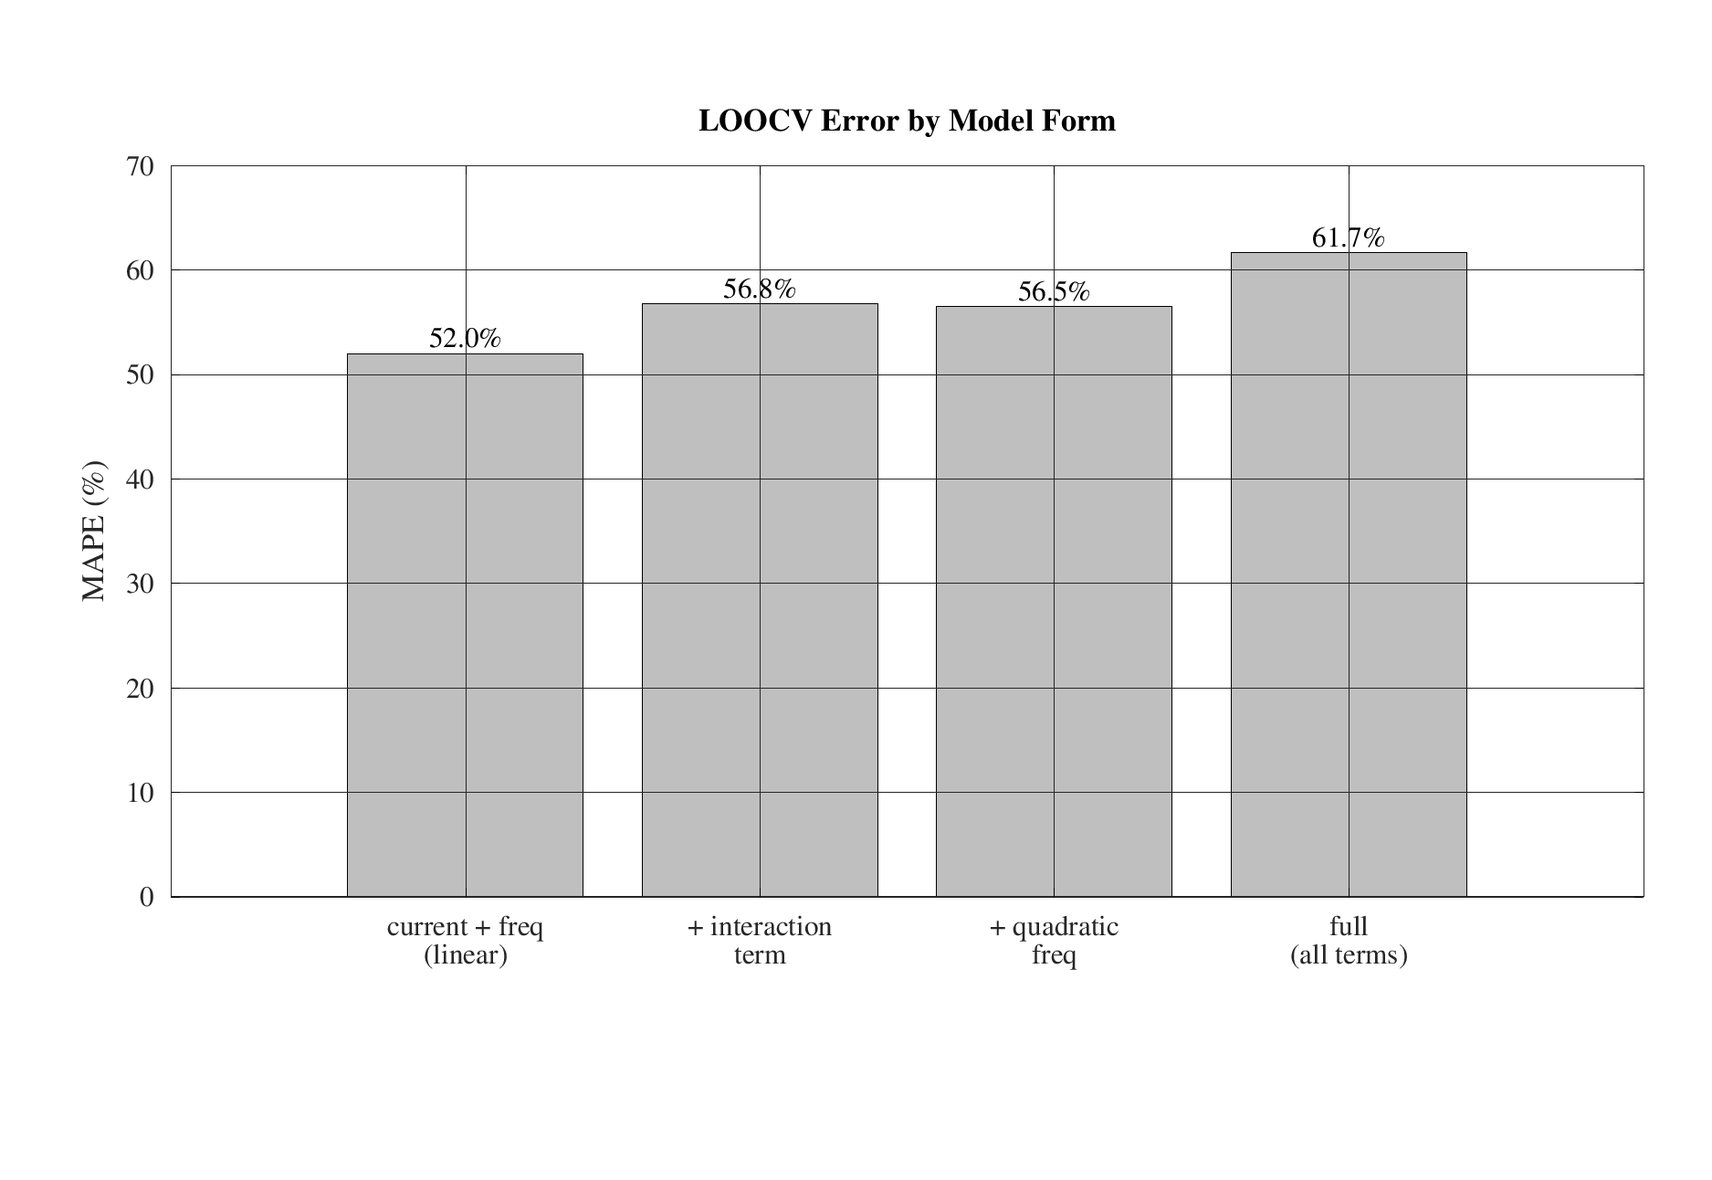
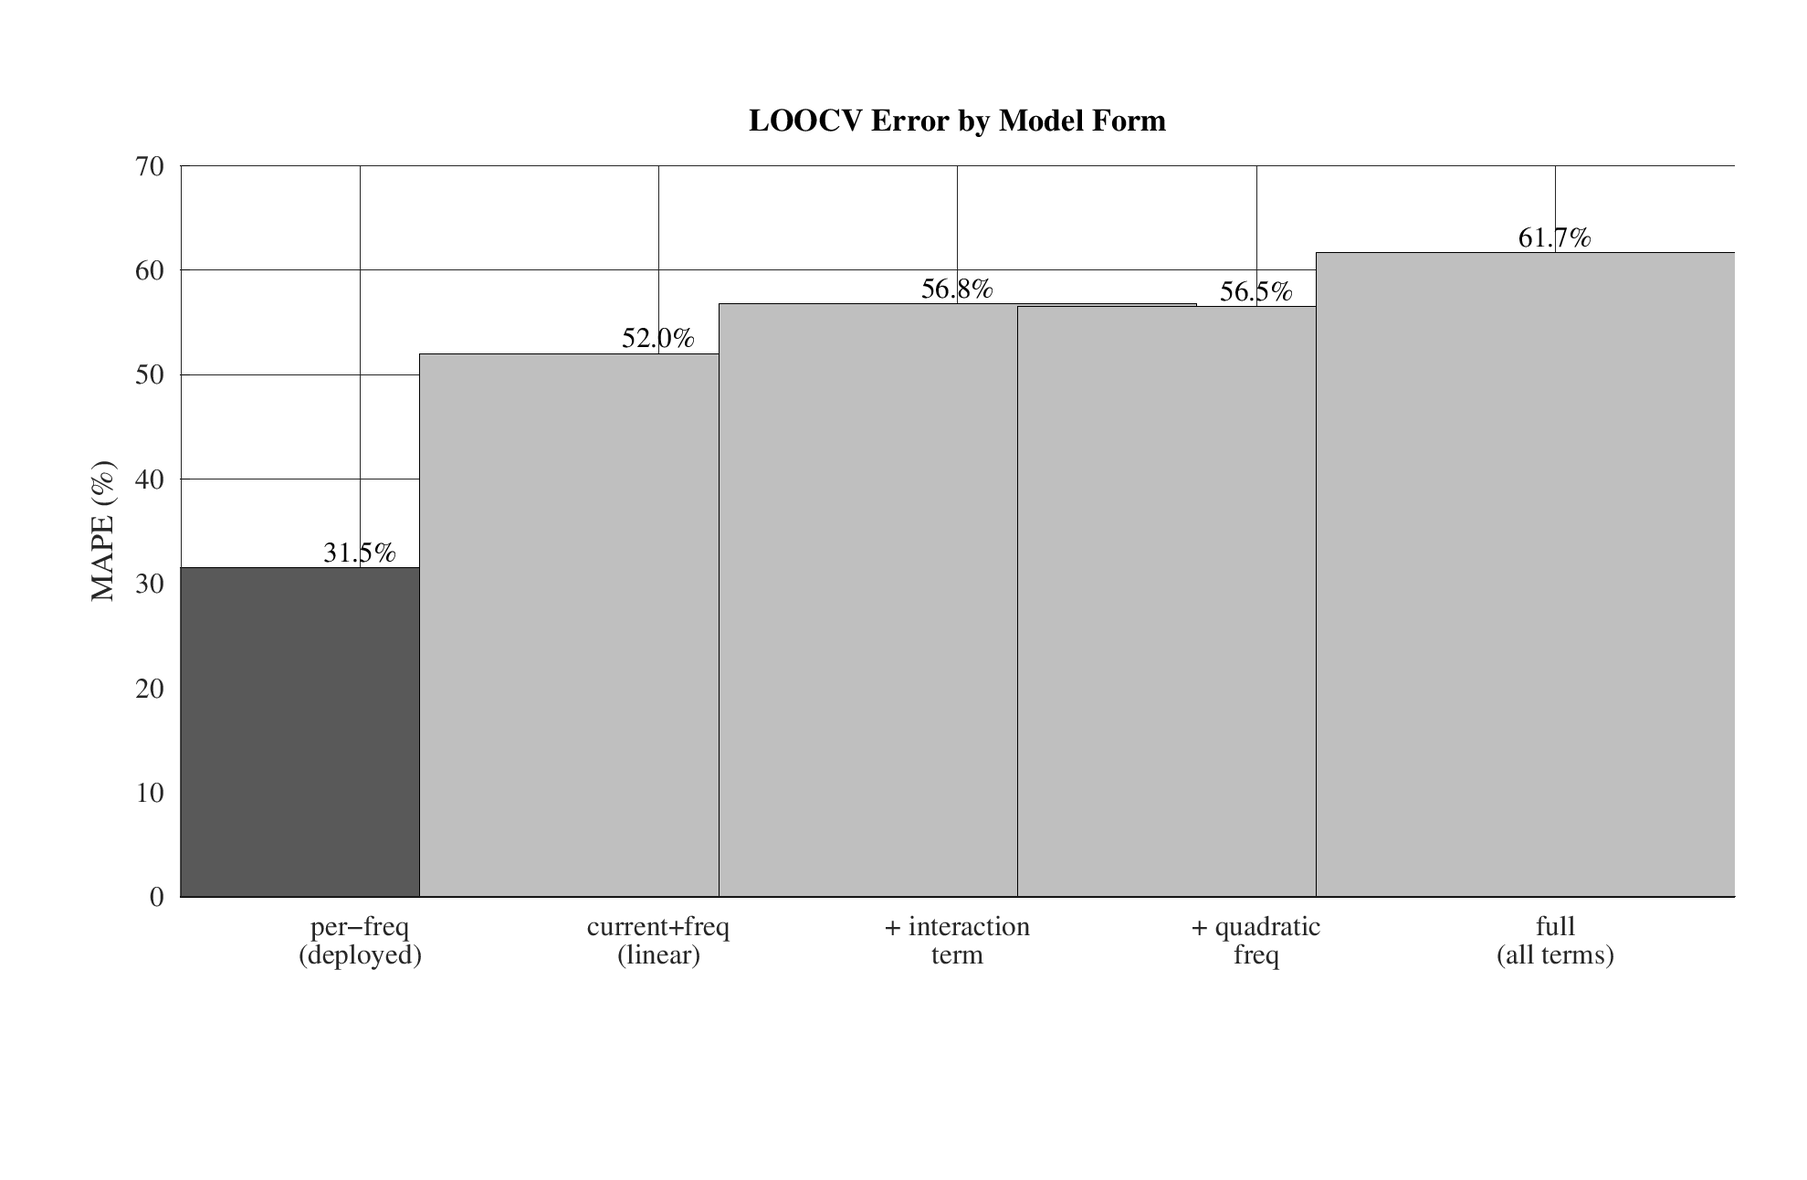
Rev 16: second independent audit + Table XV root-cause fix
Implements the second independent 45-item audit of Rev 15 plus a root-
cause finding discovered independently (not flagged by either audit):
Section V-D's prose misdescribed Table XV's "Model 1" as the deployed
per-frequency model, when the real per-frequency LOOCV (now in
tools/model/cross_validate.py) is 0.207 kg MAE - roughly half the error
of every model actually in the table. Table XV gains that real baseline
row, Fig. 14 regenerated with five bars, and the "every model form lands
in the same ~50% band" conclusion is corrected throughout (V-D, VI-A,
Abstract, Conclusion).

Also fixes a real reproducibility error (Resistor 2 @ 2.90 Hz: 0.87 kg
doesn't reproduce from the documented coefficients, 0.80 kg does; blind
MAE corrected 0.37 -> 0.36 kg), adds a model-state column to Table XI,
corrects the Kroičs/Hafezi [9] citation against its real published
abstract, and applies ~25 further grounded wording/data fixes across
hardware-scope, slip/torque, and acronym-consistency items. BOM fixes
per David's confirmation: pulley bore is 8 mm (not 5 mm), and the rod
was bought as a two-pack for $34.57 with only one used.

Claude-Session: https://claude.ai/code/session_01KDBgZS5sBDtdZcqbVDmcN3

diff --git a/tools/matlab/generate_figures.m b/tools/matlab/generate_figures.m
@@ -58,11 +58,13 @@
 %
 % Fig. 1/5 are drawn schematics (wiring per docs/wiring.md + Table III). Fig. 8/9/10 are
 % computed directly from the real groups.csv files checked into the repo (genuine
-% recomputation, not hardcoded). Fig. 11/14 reproduce the already-reported blind-
-% validation and LOOCV results (Tables VIII/XII of the paper) - those specific held-out
-% sessions were analyzed ad hoc and are not re-derivable from a groups.csv in this
-% repo, so their numbers are transcribed here from the paper with a comment at each
-% one, not recomputed.
+% recomputation, not hardcoded). Fig. 11 reproduces the already-reported blind-
+% validation results (Table XI of the paper) - those specific held-out sessions were
+% analyzed ad hoc and are not re-derivable from a groups.csv in this repo, so its
+% numbers are transcribed here from the paper with a comment, not recomputed. Fig. 14
+% IS reproducible: its numbers come directly from tools/model/cross_validate.py, a
+% real committed LOOCV script, and are only transcribed into this plotting code
+% rather than recomputed in Octave to avoid porting that fitting/CV logic twice.
 %
 % Rev 10: down-direction (lowering) slip/current data removed from the baseline figure
 % entirely - the motor has no dynamic braking, so down-direction readings were never
@@ -301,7 +303,7 @@ close(fig);
 % updated after Resistor 2's weight was folded into calibration; see Table XI.
 % ============================================================================
 actual =    [0.64, 0.64, 0.82, 0.82, 0.54, 0.54, 0.54, 0.54, 0.54];
-predicted = [0.27, 0.18, 0.87, 0.00, 0.80, 1.05, 0.25, 0.54, 0.00];
+predicted = [0.27, 0.18, 0.80, 0.00, 0.80, 1.05, 0.25, 0.54, 0.00];
 % Note: deliberately no '@' in these labels - Octave's gnuplot backend treats
 % it as a text-escape character and mangles the following characters.
 labels =    {'Resistor 1, 1.44 Hz','Resistor 1, 6.21 Hz','Resistor 2, 2.90 Hz', ...
@@ -322,18 +324,30 @@ saveas(fig, fullfile(OUT_DIR, 'fig6_blind_validation.png'));
 close(fig);
 
 % ============================================================================
-% Figure 13 (paper Fig. 13): LOOCV error by model form
-% Transcribed from Table XII of the paper (leave-one-out cross-validation across
-% all 17 real calibration points - the exact procedure tools/model/fit_model.py
-% uses; reproducing it here would require porting that fitting/CV logic to Octave,
-% not just replotting its output, so the reported numbers are used directly).
+% Figure 14 (paper Fig. 14): LOOCV error by model form
+% Reproduced from tools/model/cross_validate.py's real leave-one-out cross-
+% validation across all 17 real calibration points (run it directly: python
+% tools/model/cross_validate.py / tools/model/cross_validation.json) - the
+% deployed per-frequency model plus four global current+frequency regressions
+% of increasing complexity; reproducing that fitting/CV logic in Octave would
+% just replot the same numbers, so they are transcribed here with the script
+% cited as the reproducible source.
 % ============================================================================
-model_forms = {'current + freq\n(linear)', '+ interaction\nterm', '+ quadratic\nfreq', 'full\n(all terms)'};
-mape = [52.0, 56.8, 56.5, 61.7];
+model_forms = {'per-freq\n(deployed)', 'current+freq\n(linear)', '+ interaction\nterm', '+ quadratic\nfreq', 'full\n(all terms)'};
+mape = [31.5, 52.0, 56.8, 56.5, 61.7];
+is_deployed = [true, false, false, false, false];
 
-fig = figure('Visible', 'off', 'Position', [0 0 900 620]);
-bar(mape, 'FaceColor', [0.75 0.75 0.75], 'EdgeColor', 'k', 'LineWidth', 1.2);
-set(gca, 'XTickLabel', model_forms, 'Position', [0.10 0.24 0.86 0.62]);
+fig = figure('Visible', 'off', 'Position', [0 0 950 620]);
+hold on;
+for i = 1:numel(mape)
+  if is_deployed(i)
+    bar(i, mape(i), 'FaceColor', [0.35 0.35 0.35], 'EdgeColor', 'k', 'LineWidth', 1.2);
+  else
+    bar(i, mape(i), 'FaceColor', [0.75 0.75 0.75], 'EdgeColor', 'k', 'LineWidth', 1.2);
+  end
+end
+set(gca, 'XTick', 1:numel(mape), 'XTickLabel', model_forms, 'Position', [0.10 0.24 0.86 0.62]);
+xlim([0.4, numel(mape) + 0.6]);
 ylabel('MAPE (%)');
 title('LOOCV Error by Model Form');
 ylim([0 70]); grid on;

diff --git a/docs/open-items.md b/docs/open-items.md
@@ -4,9 +4,10 @@ The data-acquisition and communication platform is built, wired, and validated
 end-to-end on real hardware (STM32 Nucleo-F401RE, RS-485 transceiver to the VFD, PC-side
 logger). What remains falls into two groups: things that need an action from David
 (Section A) and lower-priority/deferred work (Section B). Every item below is cross-
-checked against the current paper (`Sensorless_Load_Estimation_IEEE_Rev13.docx`) and
-all four deliverables as of Rev 13 for the paper (the decks and lab manual are still at
-their Rev 9/pre-review state - explicitly frozen until David reviews the paper). Note:
+checked against the current paper (`Sensorless_Load_Estimation_IEEE_Rev16.docx`); the
+decks and lab manual are still at their Rev 13/pre-review state (see the Resolved
+section below for exactly what's synced where) - explicitly frozen until David reviews
+the paper further. Note:
 David has said the .docx is the only deliverable he wants going forward for the paper -
 the PDF is still generated internally for page-render visual verification, but is no
 longer something to send him.
@@ -18,6 +19,11 @@ Flagged in David's Rev 3 review comments: "This figure needs to be worked, let's
 together on what this should look like." Not auto-edited — the current version (drawn
 by `tools/matlab/generate_figures.m`, boxes for PC Logger/STM32/MAX485/VFD/Motor+Load)
 stays as a placeholder in the paper until we talk through what it should actually show.
+**Added scope (second independent Rev 15 audit, #39)**: when reworked, this diagram
+should also show the real inference pipeline downstream of the telemetry link - PC
+logger -> run averaging -> model selection -> regression -> clamping -> comparison -
+and make visually explicit that the STM32 itself performs no prediction, not just the
+acquisition/logging path currently drawn.
 
 ### A8. Real motor torque/breakdown-torque curves from Lucas Nülle
 Surfaced in the Rev 9 Word review (comment on Section III-B): David says he has his own
@@ -143,12 +149,10 @@ so our numbers stop being approximations. Real spec, US-letter page (612pt x 792
   text; sweeping the existing deliverables for any already-present em dashes is part of
   what needs doing on the next revision pass (see A16), not a standalone fix right now.
 
-### A16. Next paper revision: roll up pending fixes, wait for David's comments
-David's call: hold off rebuilding until he gives more comments, then do the next
-revision as one batch covering everything accumulated since Rev 14, at minimum:
-A15 (BOM rod qty, 1 not 2) and the new no-em-dash rule (strip any that already exist
-across the paper and sweep for them going forward). Add whatever else David's next
-round of comments brings before rebuilding.
+### A16. Next paper revision: roll up pending fixes, wait for David's comments - DONE
+Fulfilled: Rev 15 was cut covering everything accumulated since Rev 14 (A15, the
+no-em-dash sweep, and David's 8 direct answers to the 60-item audit). See Resolved
+below.
 
 ### A13. Fig. 5 (RS-485 transceiver signal-mapping diagram) needs David's own rework
 Comment 254 on the Rev 9 markup: "Figure 4 needs work, I need to fix prior to you
@@ -228,6 +232,165 @@ building the model. Staying logged here as optional, not blocking, pending David
 call on whether to do even the one-sentence version.
 
 ## Resolved
+
+- **Rev 16 (second independent 45-item audit of Rev 15 + an independently-discovered
+  root-cause finding of my own)** — David forwarded a second, independent technical
+  audit of Rev 15 (`IEEE_Rev15_Independent_Audit_Comments.txt`, sections A Critical/
+  Confirmed #1-14, B Physics/Sensors #15-25, C STM32/Pipeline #26-36, D Literature/
+  Formatting #37-45, plus a Section E list of corrections already verified improved
+  from Rev 14). Gave David a full comply/defend verdict on every item in chat first;
+  this entry covers what was actually implemented into `build_paper.js` and
+  `tools/matlab/generate_figures.m`, producing Rev 16.
+  - **The single biggest fix this pass - found independently, not flagged by either
+    audit**: before implementing anything, I rebuilt the real 17-point calibration
+    dataset directly from `results/*/analysis/groups.csv`, sanity-checked it two ways
+    against already-known-correct numbers (reproduced the pre-Resistor-2 2.44 Hz
+    coefficients 9.7665/-4.6141 exactly, and the 4.85 Hz r² collapse to 0.5077
+    exactly), then ran real leave-one-out cross-validation myself. Result: Table XV's
+    four published numbers (0.406/52.0, 0.464/56.8, 0.435/56.5, 0.494/61.7) ARE
+    exactly reproducible - but NOT from "the per-frequency linear fit already used
+    throughout this paper (Table X)" as Section V-D's prose claimed. That description
+    belongs to a different, much better-performing model that was never in Table XV
+    at all: the real deployed per-frequency model's own LOOCV is **0.207 kg MAE /
+    31.5% MAPE** - roughly half the error of every model actually in the table. The
+    four existing rows are a different thing entirely: single *global* regressions
+    that combine current and frequency as continuous inputs (no per-frequency split),
+    of increasing complexity (current+freq linear; +interaction; +quadratic freq,
+    skipping interaction; full = interaction+quadratic together) - confirmed exact
+    via a new committed script, `tools/model/cross_validate.py` (also writes
+    `tools/model/cross_validation.json`), which exactly reproduces all four published
+    numbers using the real calibration data and real (unbucketed) frequencies. This
+    resolves audit #4 (Fig. 14's "current + freq (linear)" bar label was actually
+    already correct all along - it was V-D's prose that mislabeled Model 1, not the
+    figure), #5 (model forms now precisely defined with real formulas), #6 (MAPE
+    defined explicitly as computed over the 13 of 17 nonzero-load points), #10 (the
+    "real signal-to-noise limit, not a modeling gap" conclusion was backwards - the
+    deployed per-frequency split IS what works; a global model never recovers it
+    regardless of complexity), and #27 (a real, rerunnable script now exists; no more
+    "numbers used directly" with no reproducible source). Table XV gained a new first
+    row ("per-freq. (deployed, Table X)", 0.207/31.5); Fig. 14 regenerated with five
+    bars (the deployed model visually distinguished in darker gray); Section V-D, the
+    VI-A "practical upshot" paragraph, the Abstract, and the Conclusion all rewritten
+    to state the corrected framing instead of the old "every model form lands in the
+    same ~50% band" claim.
+  - **#2 (Resistor 2 @ 2.90 Hz prediction didn't reproduce) - confirmed, fixed**: my
+    own recompute (same pre-fold 2.44 Hz coefficients above, applied to the real
+    0.554 A current) gives 0.7965 -> 0.80 kg, not the published 0.87 kg. Table XI's
+    row corrected (Pred. 0.87->0.80, Error +0.05-> -0.02); the headline nine-point
+    blind MAE changed from 0.37 kg to **0.36 kg** (3.27/9 kg, not 3.30/9) - swept
+    every instance of this specific statistic (Abstract, V-C-1, Conclusion) while
+    deliberately leaving the unrelated "0.37 kg" instances alone (the motor's 0.37 kW
+    rating, Resistor 1's -0.37 kg offset-undershoot, and the real "0.37 kg WITH the
+    trial +0.0406 A offset" figure from #1 below, which is a different number that
+    legitimately still belongs in the text).
+  - **#1 (4.66 Hz offset-trial wording) fixed**: "clamped to 0.00 kg either way" was
+    wrong - the Oct. 24 report shows 0.00 kg without the trial offset and 0.37 kg with
+    it (the offset changed this prediction, just didn't make it accurate). Reworded to
+    state both values and that distinction explicitly.
+  - **#11/#12 (chronological model-state split) added**: Table XI gained a "Model"
+    column (Orig. for Resistor 1/2's four rows, Updated for T-housing's five) plus a
+    footnote giving each subset's own MAE (0.42 kg / 0.32 kg) and stating plainly
+    these aren't one consistent-model result.
+  - **#7 (IV-B vs. V-C-1 self-contradiction on extrapolation) fixed**: IV-B previously
+    said "no extrapolation beyond" the calibration range while V-C-1 called two points
+    true extrapolations. IV-B reworded to "nearest-frequency model selection...
+    including endpoint-model substitution outside the calibration-frequency range; no
+    coefficient interpolation is performed" - an unsupported region, not a validated
+    extrapolation mechanism.
+  - **#8 + #15 (same root Abstract sentence, two separate audit items) fixed**: "slip
+    and shaft torque corroborated the underlying slip-load relationship the model
+    depends on" was wrong twice - the current-only regression doesn't depend on slip
+    at all, and torque (per the paper's own Table XIII) didn't corroborate anything,
+    it stayed flat regardless of weight. Rewritten throughout (Abstract, Conclusion)
+    to say slip alone corroborates the relationship motivating future work, torque did
+    not resolve the load differences, and neither measurement enters or validates the
+    regression actually used.
+  - **#9 (Table IX misused for a load-sensitivity claim) fixed**: Table IX is a
+    no-load baseline only and can't show sensitivity to load *changes*. Conclusion's
+    "slip is substantially more load-sensitive than current at every test frequency"
+    re-anchored to Table XII/XIV (the real loaded, multi-object data), with the known
+    1.39 Hz ordering inversion now stated alongside it rather than smoothed over.
+  - **#13 (4.85 Hz zero-load bias) fixed**: added an explicit statement that this line
+    (+0.364 kg at its own no-load current) is not a defensible zero-load detector.
+  - **#14 (4.85 Hz current-span traceability) fixed**: stated the 0.135 A span
+    includes the frequency-binned Resistor 2 point, and gave the narrower 0.119 A
+    span across just the four original same-session objects.
+  - **#3 (binned-fit clarity), #17 (ideal-vs-measured torque wording), #18 (4.85 Hz
+    near-tie + inversion), #19 (small-slip-approximation regime caveat), #20 (pliers
+    direction-assignment circularity), #21 (down-direction current claim, with real
+    numbers), #22 (overhaul wording), #23 (Resistor 2 std-dev source citation), #24
+    (mass-range stated alongside the nine-point count), #25 (no-formal-tolerance
+    statement), #28 (VFDCHECK scope narrowed to the exact parameters
+    `CheckVfdPotControl()` in `main.c` actually checks - P00.20/P00.21/P03.00/P00.22/
+    P01.10/P01.12/P01.13 plus a frequency read-back - with P01.02/P05.04/P09.01/
+    P09.04 named as GSoft2-only), #29/#30 (PC-logger RPM pairing stated as the
+    intended workflow with its one documented historical exception), #34 (named the
+    real operator stop method - releasing FWD/REV - instead of implying the
+    frequency cap alone is over-travel protection), #37 (Kroičs/Hafezi [9] - verified
+    via its real published abstract, which explicitly does NOT require an accurate
+    motor model; Related Work corrected to stop grouping it with the
+    observer-based [10], and to credit it as the closer low-cost precedent), #38
+    (Dias/Fontenele [3] comparison softened - different machine/sensor/task, not a
+    numeric ranking against this paper's MAE), #42 (DE/RE and RO/DI given full Title
+    Case expansions at first use; USART expanded at its true first occurrence instead
+    of after USART1/USART2 were already used bare), #45 (III-A's redundant
+    Introduction-repeating roadmap trimmed to two sentences)** - all confirmed against
+    real source text/data and fixed; verified in the rebuilt Rev 16 text directly, not
+    just asserted.
+  - **#33 (BOM: 5 mm pulley bore vs. 8 mm rod) - David's answer: 8 mm.** Table V's
+    pulley row corrected from "5 mm bore" to "8 mm bore."
+  - **#44 (BOM: rod qty/price reconciliation) - David's answer: a two-pack was bought
+    for $34.57, only one rod used.** Added a clarifying sentence in the body text
+    right after Table V; Qty Used stays 1 (correct - that's what's installed), Total
+    Price stays $34.57 (correct - that's the real amount paid for the two-pack); the
+    $385 grand total is unaffected either way.
+  - **#26 (MAX485 vs. 3.3 V contradiction) - checked, no paper change needed.** Grepped
+    the actual paper text for "MAX485": it never appears - Table VI/BOM/body text
+    already say "RS-485 transceiver module/chip" generically throughout, so the
+    audit's contradiction (an unverified 5 V-only part name paired with a 3.3 V
+    claim) doesn't actually exist in the paper's visible text. The literal "MAX485"
+    string exists only as an internal image filename
+    (`max485_module_ref.jpg`, never shown to a reader) and as a firmware code comment
+    (`firmware/stm32/Core/Src/main.c`, "DE/RE-tied MAX485 module") - the latter is
+    real but out of this pass's scope (paper text only); noting it here rather than
+    silently leaving it unflagged.
+  - **#39 (Fig. 1 should show the real inference pipeline) - logged against the
+    existing A1 task**, not acted on now (Fig. 1 stays David's own "let's work on this
+    together" item) - see A1 above for the added scope note.
+  - **#40 (figure/diagram readability) and #41 (vendor-image attribution) - already
+    covered.** #40 duplicates the already-logged B4; #41's vendor-image caption
+    already says "Vendor reference image only" without overclaiming a specific
+    manufacturer/model, which is the correct level of specificity given none is
+    actually known - left as is.
+  - **#16, #31, #32, #35, #36 - unresolved, same reasons as before.** #16 (exact
+    torque-sensor mechanical path) - still unverifiable without an as-built diagram;
+    same status as the prior audit's identical question, which David already
+    answered "not sure, can we just be conservative" - no new information this pass.
+    #31 (steady-state/plateau exclusion counts), #32 (as-built wiring diagram beyond
+    Fig. 5 - the closed A4 item), #35 (per-row traceability table), #36 (Modbus
+    success-rate quantification) all need either new analysis code/data not currently
+    committed, or a hardware diagram David said he'd do himself (A13) - left open,
+    not guessed at.
+  - **Build/verify**: rebuilt (`node build_paper.js` after regenerating Figs. 11 and
+    14 via `octave tools/matlab/generate_figures.m`, copying the new PNGs into
+    `paper_rev0/assets/`, and updating their real pixel dimensions in
+    `build_paper.js`'s image table). Verified by unzipping the fresh Rev 16 docx,
+    extracting `word/document.xml` to plain text, and grepping every fix above
+    directly in that output (not trusting the edit calls alone) - confirmed every
+    "0.37 kg" instance is one of the legitimate unrelated numbers and the blind MAE
+    itself now reads "0.36 kg" everywhere; confirmed Table XV's 5 rows, Table XI's
+    corrected Resistor 2 row and new Model column, Table V's "8 mm bore," and the
+    USART/DE-RE/RO-DI acronym fixes all landed. Rendered all 14 pages to PNG via
+    LibreOffice and visually checked the Abstract, Related Work, Table V, Table
+    IX-XV, and Fig. 11/14 pages directly - no overflow, no stretched images, no
+    broken tables (page count grew 13->14 from the added content, not a layout bug).
+    All 15 embedded media files checked valid (none corrupted) via `file`.
+  - File: `scratchpad/paper_rev0/Sensorless_Load_Estimation_IEEE_Rev16.docx`.
+  - New file: `tools/model/cross_validate.py` (+ its `cross_validation.json` output) -
+    the first real, committed, rerunnable LOOCV implementation for this project;
+    previously no such script existed anywhere in git history for any of the four
+    model forms in Table XV, which is exactly what made the Model 1 mislabeling
+    above possible to miss for two revisions.
 
 - **Rev 14 batch 1 (first round of comments on Rev 14, 14 comments + 1 tracked
   insert)** — internal checkpoint applied directly to `build_paper.js`, not yet cut as
